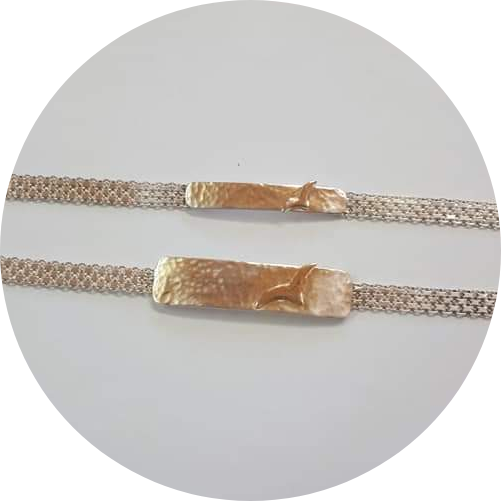
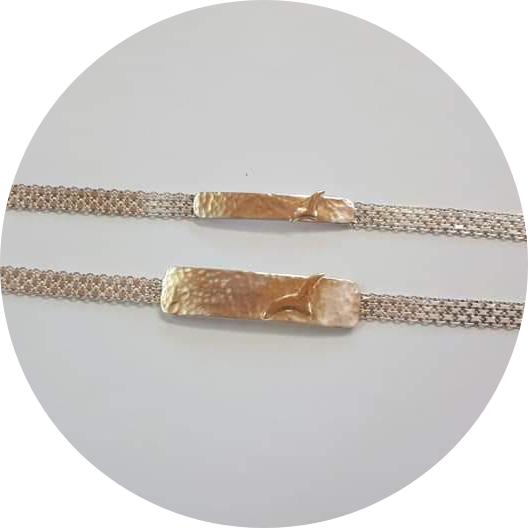
fix size of photos in main page

Changed region(s): [[0.0, 0.479, 1.0, 0.6587], [0.0, 0.3293, 1.0, 0.479]]

diff --git a/index.html b/index.html
@@ -57,7 +57,7 @@
 
           <tr>
             <td>
-              <img class="Workshop-photo" src="images/ceramics-circle.png" alt="ring">
+              <img class="main_photo" src="images/ceramics-circle.png" alt="ring">
               <h3 class="go_into" ><a href="ceramics.html">קרמיקה</a></h3>
             </td>
             <td>
@@ -71,13 +71,13 @@
               <h3 class="go_into" ><a href="Special_orders.html">הזמנות מיוחדות </a></h3>
             </td>
             <td>
-              <img class="Workshop-photo" src="images/work.jpeg" alt="ring">
+              <img class="main_photo" src="images/work.png" alt="ring">
               <h3 class="go_into" ><a  href="Workshop.html">סדנאות</a></h3>
             </td>
           </tr>
           <tr>
             <td>
-              <img class="main_photo" src="cocher/cocher.jpeg" alt="ring">
+              <img class="main_photo" src="images/cocher_main.png" alt="ring">
               <h3 class="go_into"><a  href="coching.html"> אימון אישי / קואצינג </a></h3>
               <h3 class="go_into"><a  href="coching.html">NLP</a></h3>
             </td>

diff --git a/styless.css b/styless.css
@@ -74,6 +74,7 @@ transform: translate(-50%, -50%);
 
 .head_main{
   color: #D9ECF2;
+  padding-bottom: 30px;
 }
 
 .top_border_photo{
@@ -154,7 +155,7 @@ transform: translate(-50%, -50%);
 }
 
 .main-manue {
-  margin-left: 85px;
+  
 }
 
 

diff --git a/all_jewelry.js b/all_jewelry.js
@@ -45,7 +45,6 @@ document.getElementById("slide_img").src = images[i-1];
 
 setInterval(slider, 2500);
 
-
 /*
 var next = document.querySelector(".next");
 var photo_1 = document.getElementById('er_1');
